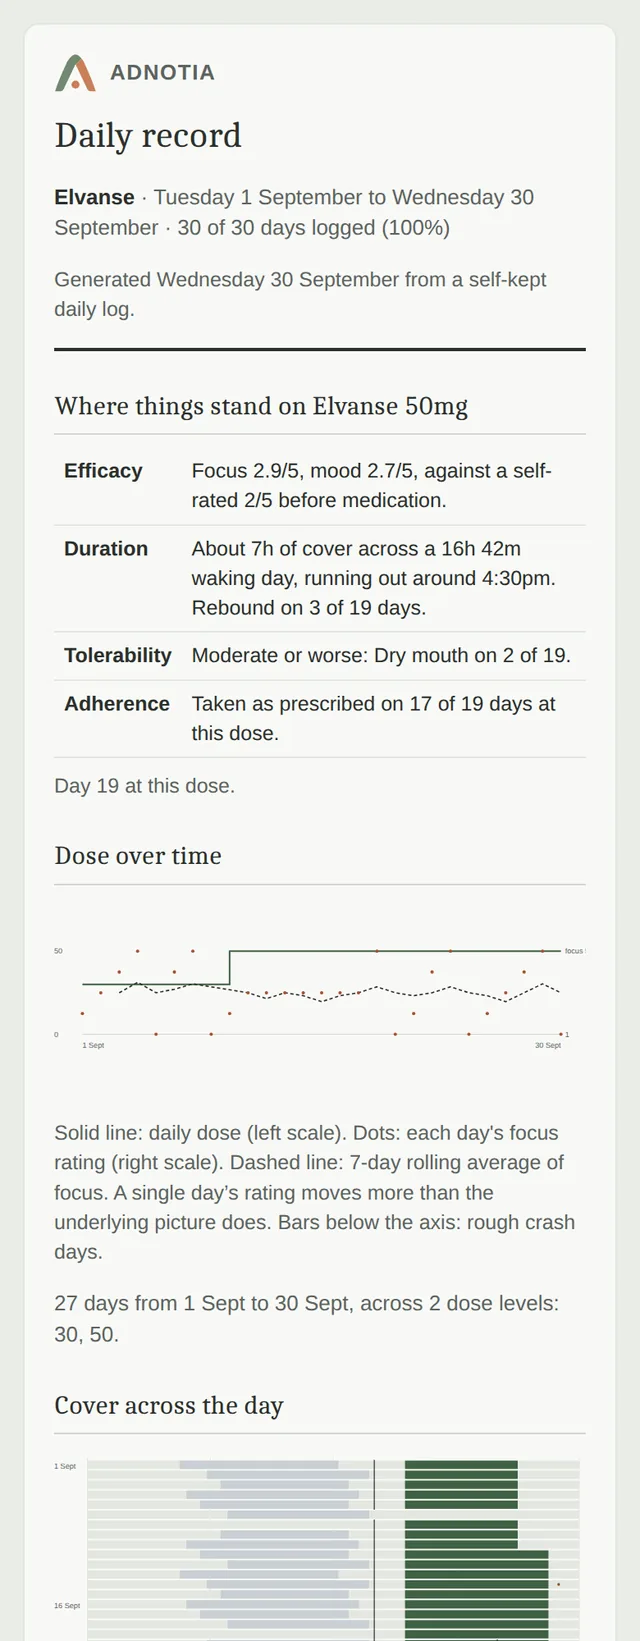
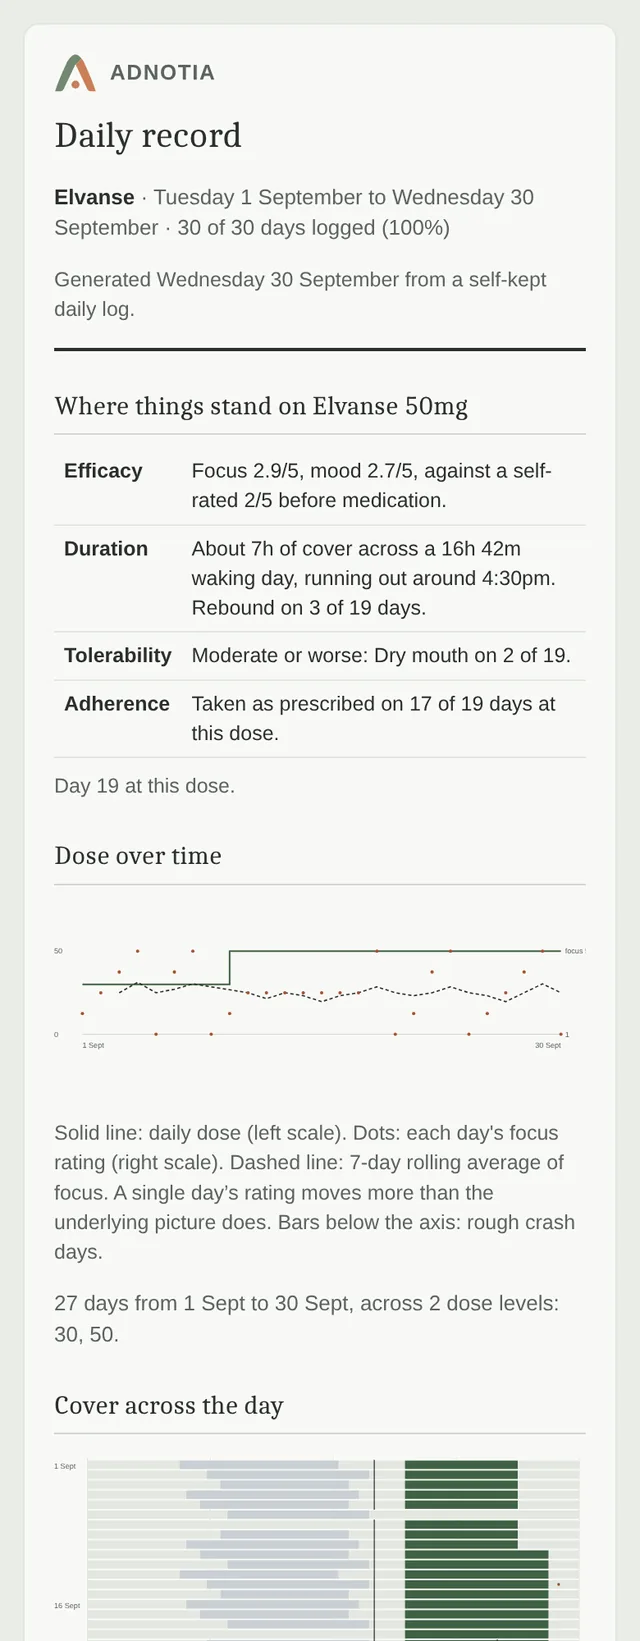
Make the screenshots actually reproducible
ADR-037 claims regenerating these gives the same images, so a difference means
the interface moved. I checked that with two runs, they agreed, and I wrote it
down. Over twenty runs today.webp comes out one of two ways, about seven to
three.

The difference is confined to a 564x261 region — the card with native form
controls in it — and no pixel anywhere differs by as much as five per cent. It is
invisible and it changes every byte, which is the worst combination: the property
the whole approach rests on was false, and the only symptom was a screenshot
turning up in git status having changed nothing.

Chromium was capturing whatever the compositor had ready rather than a finished
paint. --run-all-compositor-stages-before-draw and --disable-partial-raster fix
it; twelve consecutive runs now agree, and so do three more across all three
shots.

--disable-lcd-text and --font-render-hinting=none go in beside them. Subpixel
antialiasing is the other thing that varies, and it leaves colour fringing on
glyph edges that shows as faintly tinted words once a shot is scaled down to the
260px the welcome page displays it at.

All three images are regenerated, and their bytes change because the text is
rasterised differently now. Nothing in them moved.

Changed region(s): [[0.4688, 0.2797, 0.5, 0.3108], [0.3125, 0.3419, 0.3438, 0.3729]]

diff --git a/docs/decisions/ADR-037-the-welcome-page-carries-screenshots.md b/docs/decisions/ADR-037-the-welcome-page-carries-screenshots.md
@@ -43,6 +43,20 @@ consequences, and each is the reason:
   images in a year and a difference between them and these means the interface
   changed, not that time passed.
 
+That last property had to be earned rather than assumed. It was checked with two
+runs, which agreed, and the claim went into this ADR. Over twenty runs `today`
+came out one of two ways at about seven to three — the shot with native form
+controls in it, differing only inside those controls, by less than five per cent
+on any pixel: invisible, and enough to change every byte. Chromium was painting
+whatever the compositor had ready. `--run-all-compositor-stages-before-draw` and
+`--disable-partial-raster` make it paint everything first, and twelve consecutive
+runs then agreed. `--disable-lcd-text` and `--font-render-hinting=none` are there
+alongside them, which also removes the colour fringing subpixel text leaves on
+glyph edges once a shot is scaled down on the page.
+
+Removing any of those four brings the flapping back, quietly, and the only symptom
+is a screenshot that shows up in `git status` having changed nothing.
+
 They are committed, and generating them is not part of `npm run build`. The
 welcome page is static and must deploy without a browser or ImageMagick present.
 
